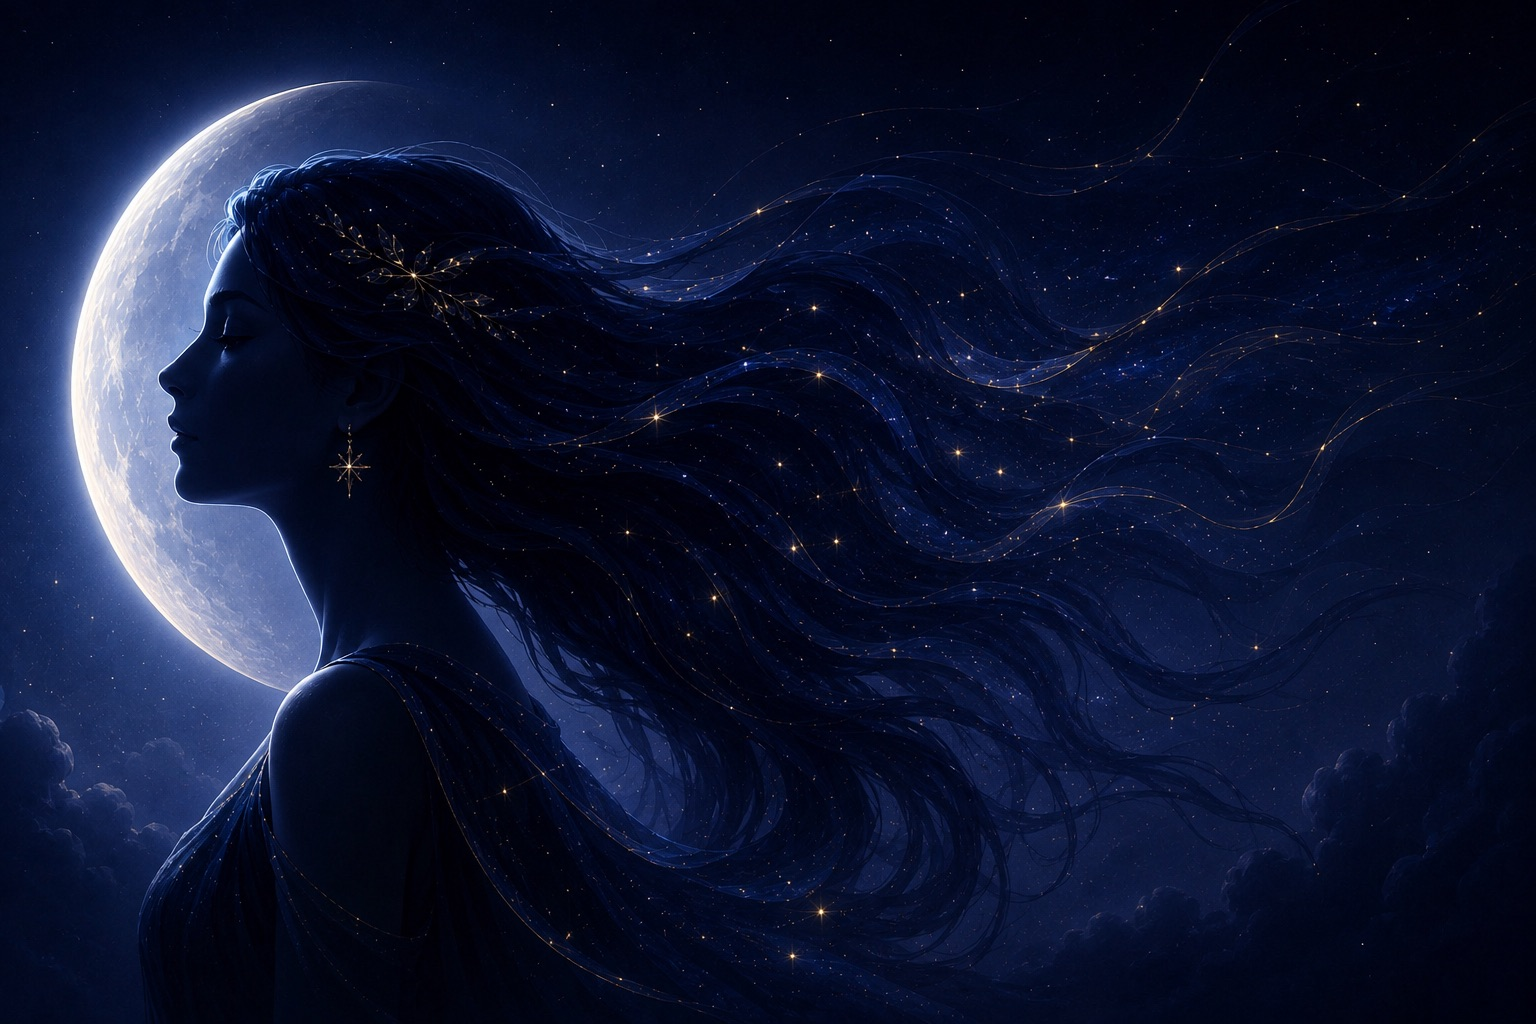
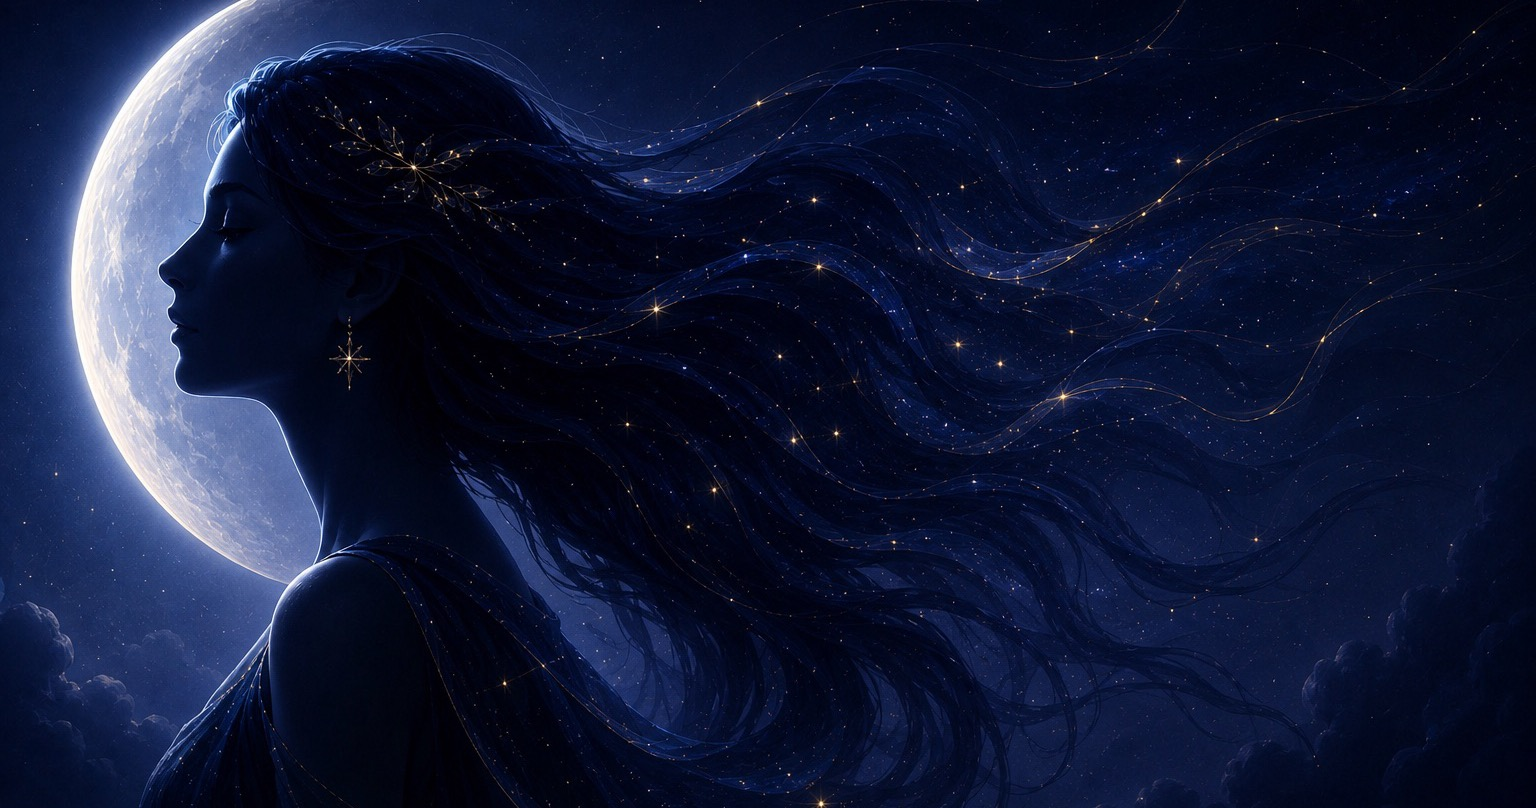
ヒーロー画像を姉妹サイトと統一
- hero.jpg を 1536×808（≒1.90:1）に中央クロップしてワイド化
- og:image:height を 808 に更新（OGP の 1.91:1 にほぼ一致）
- .hero-banner を max-width 900 / margin 32 / radius 16 に揃え
- .hero padding を 40/20/60 に揃え
RunRun・Seekthea のランディングとヒーローの表示サイズ・余白を統一。

diff --git a/docs/index.html b/docs/index.html
@@ -15,7 +15,7 @@
   <meta property="og:url" content="https://sawasige.github.io/clipnyx/">
   <meta property="og:image" content="https://sawasige.github.io/clipnyx/hero.jpg">
   <meta property="og:image:width" content="1536">
-  <meta property="og:image:height" content="1024">
+  <meta property="og:image:height" content="808">
   <meta property="og:locale" content="ja_JP">
   <meta property="og:locale:alternate" content="en_US">
   <meta name="twitter:card" content="summary_large_image">
@@ -73,14 +73,14 @@
     /* Hero */
     .hero {
       text-align: center;
-      padding: 64px 24px 80px;
+      padding: 40px 20px 60px;
     }
 
     .hero-banner {
       position: relative;
-      max-width: 980px;
-      margin: 0 auto 40px;
-      border-radius: 20px;
+      max-width: 900px;
+      margin: 0 auto 32px;
+      border-radius: 16px;
       overflow: hidden;
       box-shadow: 0 12px 48px rgba(0, 0, 0, 0.25);
     }
